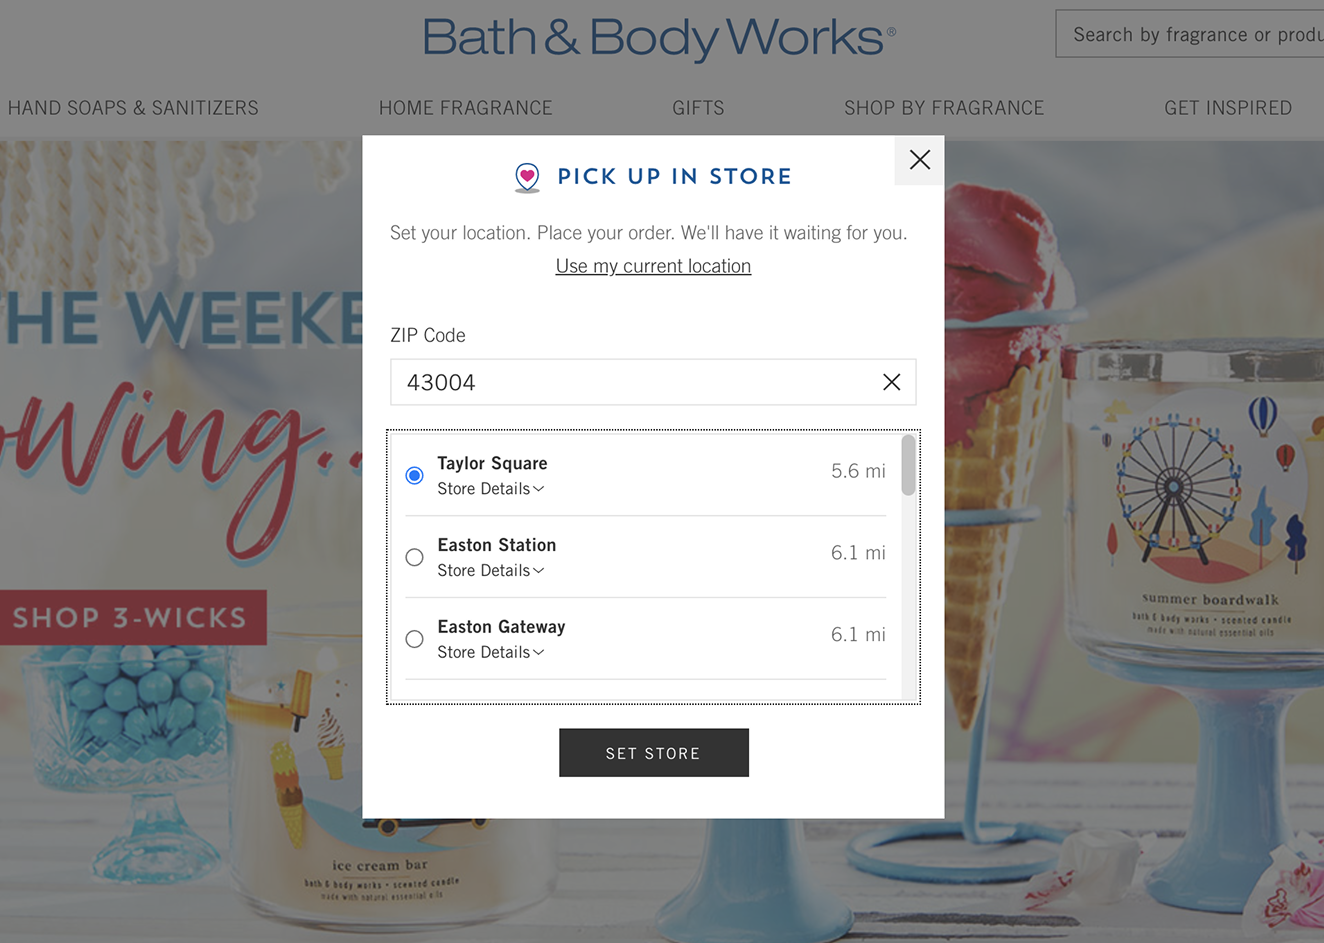
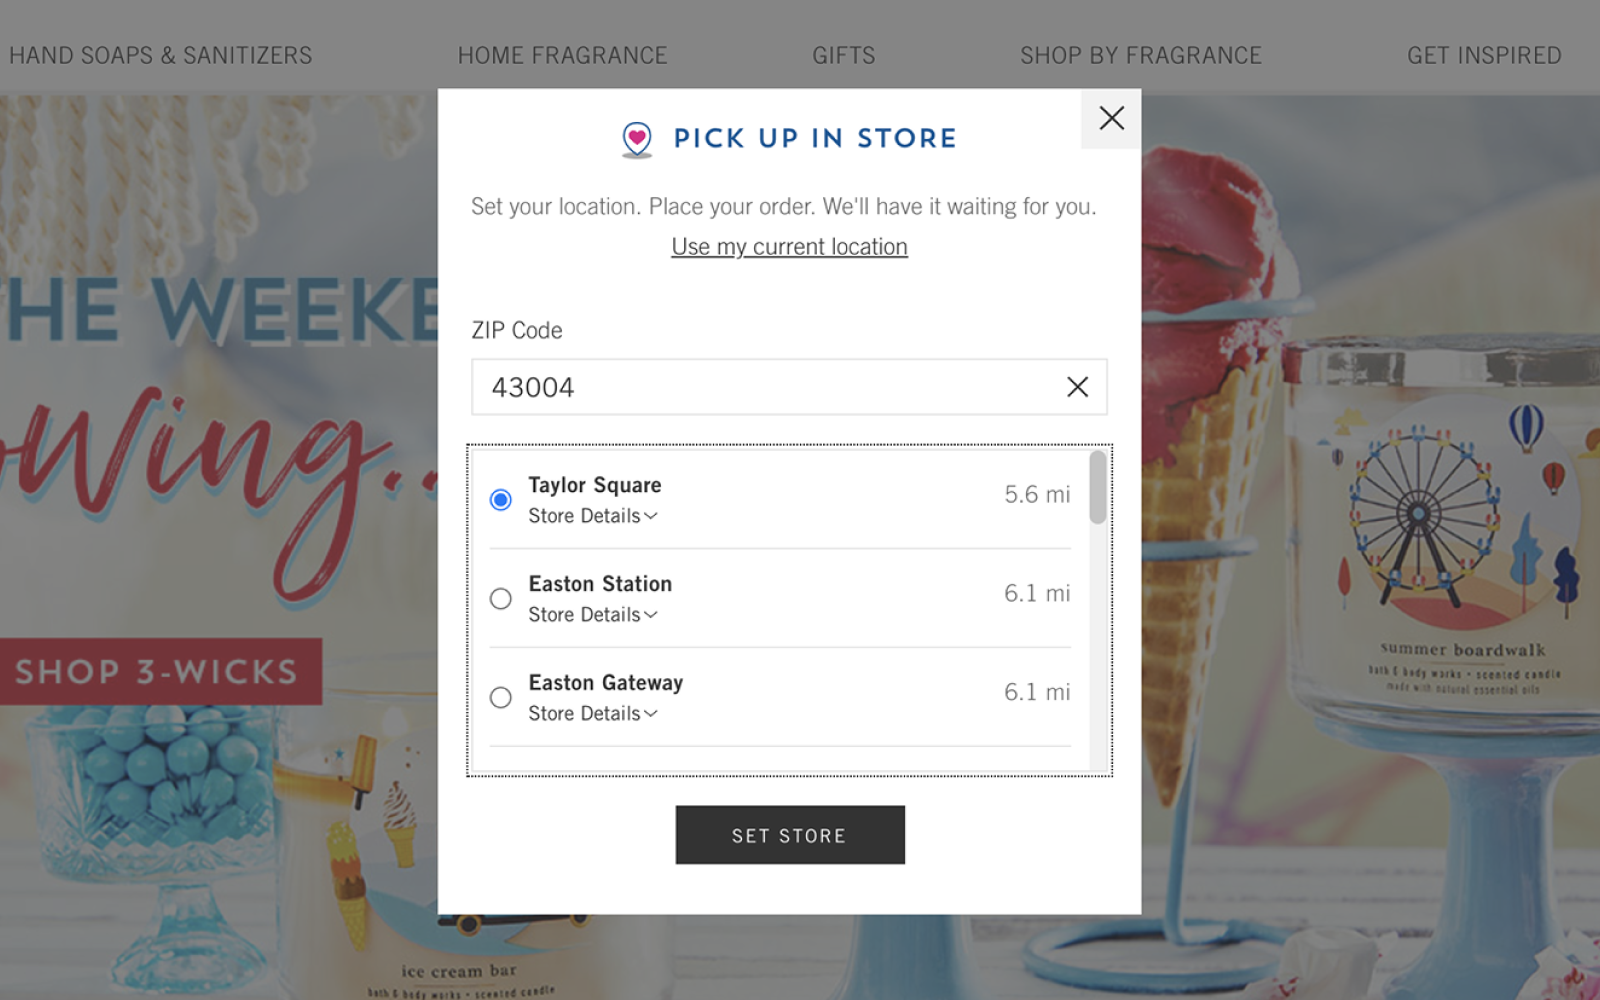
feat: simplify ParallaxImage component and remove contain prop usage

diff --git a/src/pages/Home.tsx b/src/pages/Home.tsx
@@ -80,18 +80,11 @@ function Reveal({ children, delay = 0 }: { children: React.ReactNode; delay?: nu
   )
 }
 
-function ParallaxImage({ src, alt, contain }: { src: string; alt: string; contain?: boolean }) {
+function ParallaxImage({ src, alt }: { src: string; alt: string }) {
   const ref = useRef<HTMLDivElement>(null)
   const { scrollYProgress } = useScroll({ target: ref, offset: ['start end', 'end start'] })
   const rawY = useTransform(scrollYProgress, [0, 1], ['6%', '-6%'])
   const y = useSpring(rawY, { stiffness: 60, damping: 20 })
-  if (contain) {
-    return (
-      <div style={{ width: '100%', aspectRatio: '16/10', overflow: 'hidden', borderRadius: 12, display: 'flex', alignItems: 'center', justifyContent: 'center' }}>
-        <img src={src} alt={alt} style={{ maxWidth: '100%', maxHeight: '100%', width: 'auto', height: 'auto', objectFit: 'contain', display: 'block', margin: '0 auto' }} />
-      </div>
-    )
-  }
   return (
     <div ref={ref} style={{ width: '100%', aspectRatio: '16/10', overflow: 'hidden', borderRadius: 12 }}>
       <motion.img src={src} alt={alt}
@@ -112,7 +105,7 @@ function ProjectCard({ p, index, activeProject, setActiveProject }: {
       animate={{ opacity: dimmed ? 0.3 : 1 }}
       transition={{ duration: 0.3 }}
     >
-      <ParallaxImage src={p.image} alt={p.title} contain={p.id === '02'} />
+      <ParallaxImage src={p.image} alt={p.title} />
       <div className="pt-5 flex flex-col gap-3">
         <div className="flex items-center gap-3">
           <span style={{ fontSize: '0.65rem', color: '#767675', letterSpacing: '0.1em', fontWeight: 300 }}>{p.id}</span>
